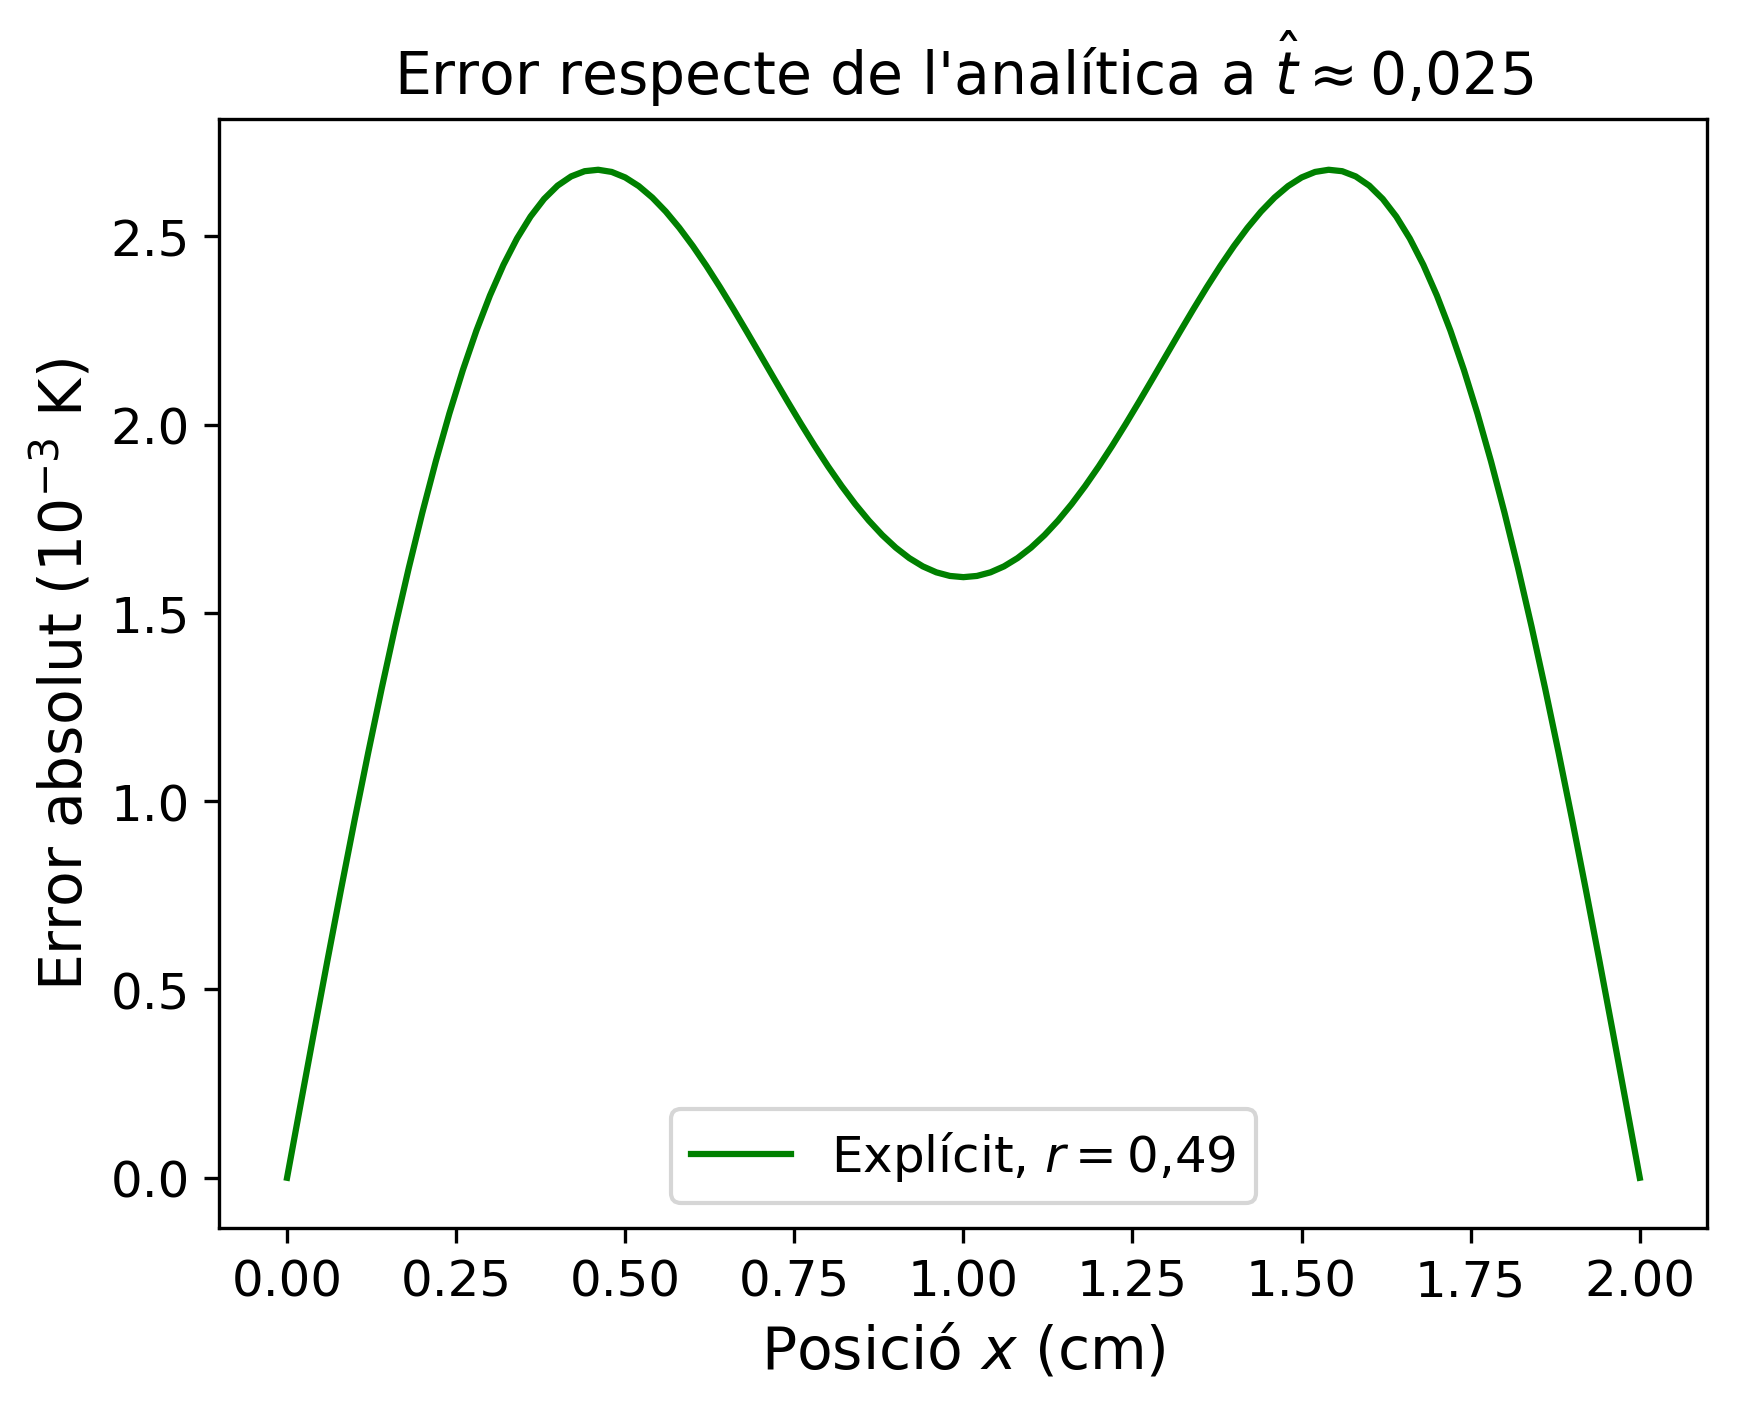
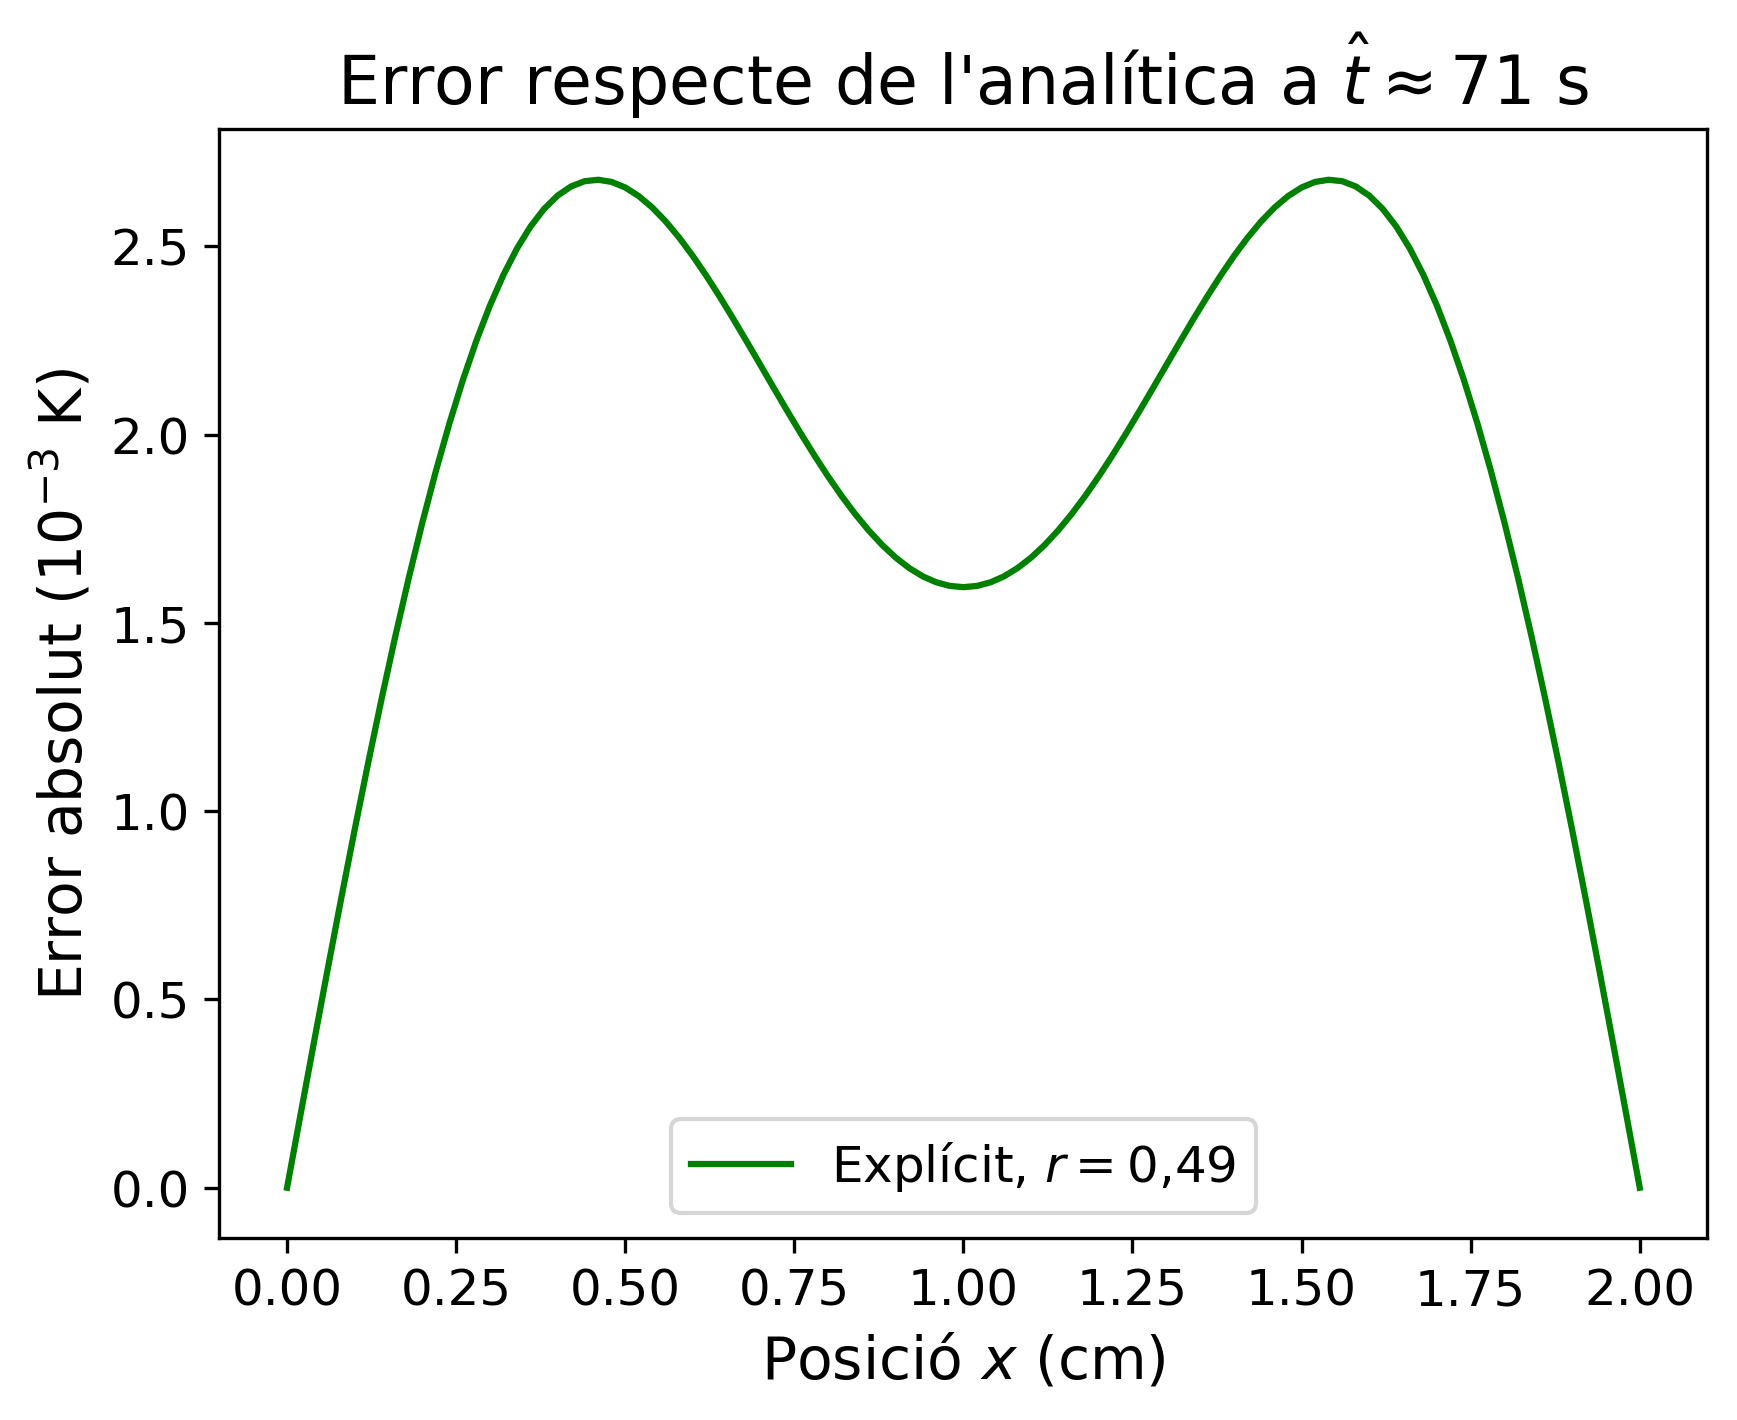
comparacions

diff --git a/comparacio_errors.py b/comparacio_errors.py
@@ -1,14 +1,43 @@
 import matplotlib.pyplot as plt
-import matplotlib
-matplotlib.use("Agg") # per no obrir finestres de grafic
 
-from euler_expl_25 import error_graus as error_25, x
-from euler_expl_49 import error_graus as error_49
+plt.rcParams.update({
+    "axes.titlesize": 18,   
+    "axes.labelsize": 14,   
+    "xtick.labelsize": 12,  
+    "ytick.labelsize": 12,  
+    "legend.fontsize": 12    
+})
 
-plt.plot(x*2, error_49*1e3, color='green', linestyle='-',  label=r"Explícit, $r=0.49$")
-plt.plot(x*2, error_25*1e3, color='red',   linestyle='--', label=r"Explícit, $r=0.25$")
+show_original = plt.show
+plt.show = lambda *a, **k: plt.close('all')    
+
+from euler_expl_25 import error_graus as error_expl_25, x
+from euler_expl_49 import error_graus as error_expl_49
+from euler_imp import error_graus as error_impl_1, error_graus2 as error_impl_05
+from cn_gs import error_graus_t1 as error_cn                          
+
+
+plt.show = show_original                       
+plt.close('all')                               
+
+plt.figure()
+plt.plot(x*2, error_expl_49*1e3, color='green', linestyle='-',  label=r"Explícit, $r=0.49$")
+plt.plot(x*2, error_expl_25*1e3, color='red',   linestyle='--', label=r"Explícit, $r=0.25$")
 plt.xlabel("Posició $x$ (cm)")
 plt.ylabel(r"Error absolut ($10^{-3}$ K)")
-plt.title(r"Error respecte de l'analítica a $\hat{t}\approx 0{,}025$")
+plt.title(r"Error respecte de l'analítica a t $\approx 71$ s")
+plt.legend(loc='best')
+plt.show()
+
+plt.figure()
+plt.plot(x*2, error_expl_25*1e3, color='green',  linestyle='-',  label=r"Explícit, $r=0.25$")
+plt.plot(x*2, error_impl_05*1e3, color='red',    linestyle='--', label=r"Implícit, $r=0.5$")
+plt.plot(x*2, error_impl_1*1e3,  color='orange', linestyle='-.', label=r"Implícit, $r=1$")
+plt.plot(x*2, error_cn*1e3,      color='blue',   linestyle=':',  label=r"Crank-Nicolson, $r=1$ i $0.5$")
+plt.xlabel("Posició $x$ (cm)")
+plt.ylabel(r"Error absolut ($10^{-3}$ K)")
+plt.ylim(0, 12.5)                      
 plt.legend()
-plt.plot()
+plt.title(r"Comparació errors mètodes numèrics a t $\approx 71$ s")
+plt.savefig("comparacio_errors_metodes.png", dpi=300, bbox_inches="tight")
+plt.show()

diff --git a/euler_expl_49.py b/euler_expl_49.py
@@ -4,7 +4,7 @@ import numpy as np
 from matplotlib.animation import FuncAnimation
 
 plt.rcParams.update({
-    "axes.titlesize": 14,   
+    "axes.titlesize": 16,   
     "axes.labelsize": 14,   
     "xtick.labelsize": 12,  
     "ytick.labelsize": 12,  

diff --git a/euler_expl_25.py b/euler_expl_25.py
@@ -8,7 +8,7 @@ n=101
 r=0.25
 
 plt.rcParams.update({
-    "axes.titlesize": 14,   
+    "axes.titlesize": 16,   
     "axes.labelsize": 14,   
     "xtick.labelsize": 12,  
     "ytick.labelsize": 12,  
